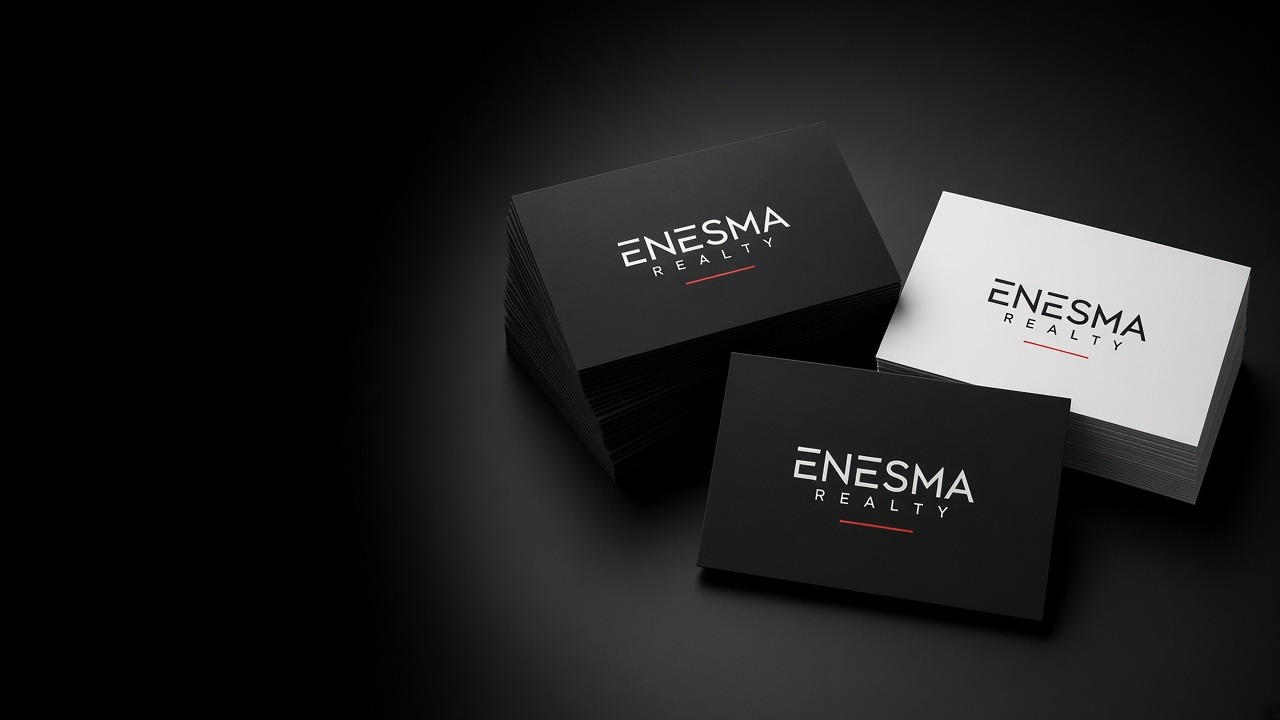
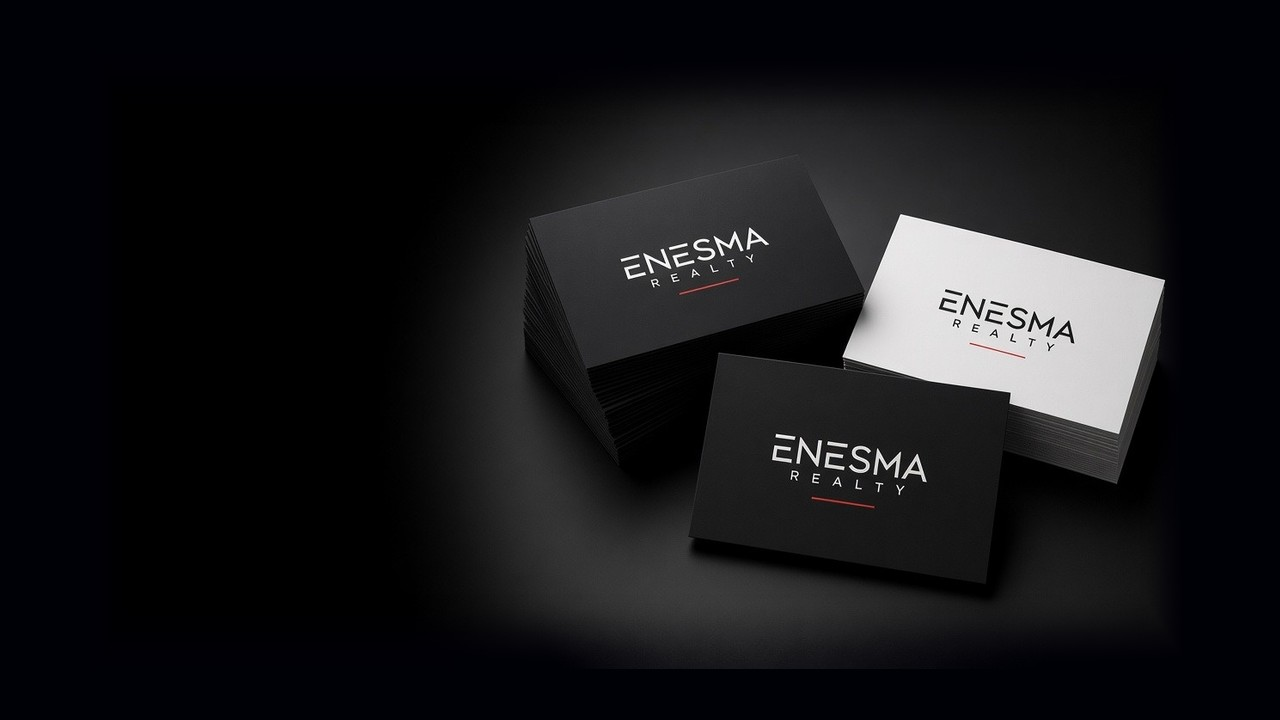
Give the home tile photos room and blend their edges into the tile.
Inset each Gear, Signs, and Cards photo on black and fade only the dark edges, so the products stay whole and the photo no longer reads as a lighter box.

diff --git a/index.html b/index.html
@@ -8,7 +8,7 @@
 (function () {
   var path = location.pathname, marker = '/enesma-shop/', i = path.indexOf(marker);
   window.SHOP_BASE = i >= 0 ? path.slice(0, i + marker.length) : '/';
-  var v = '20261120s';
+  var v = '20261120t';
   var b = window.SHOP_BASE;
   document.write('<base href="' + b + '">');
   document.write('<link rel="stylesheet" href="' + b + 'css/shop.css?v=' + v + '">');
@@ -34,13 +34,13 @@
 <body data-page="home">
 <div id="app"></div>
 <script>
-document.write('<script src="' + window.SHOP_BASE + 'js/config.js?v=20261120s"><\/script>');
-document.write('<script src="' + window.SHOP_BASE + 'js/catalog.js?v=20261120s"><\/script>');
-document.write('<script src="' + window.SHOP_BASE + 'js/cart.js?v=20261120s"><\/script>');
-document.write('<script src="' + window.SHOP_BASE + 'js/api.js?v=20261120s"><\/script>');
-document.write('<script src="' + window.SHOP_BASE + 'js/ui.js?v=20261120s"><\/script>');
-document.write('<script src="' + window.SHOP_BASE + 'js/main.js?v=20261120s"><\/script>');
-if (window.__ESHOP_INTRO) document.write('<script src="' + window.SHOP_BASE + 'js/intro.js?v=20261120s-white"><\/script>');
+document.write('<script src="' + window.SHOP_BASE + 'js/config.js?v=20261120t"><\/script>');
+document.write('<script src="' + window.SHOP_BASE + 'js/catalog.js?v=20261120t"><\/script>');
+document.write('<script src="' + window.SHOP_BASE + 'js/cart.js?v=20261120t"><\/script>');
+document.write('<script src="' + window.SHOP_BASE + 'js/api.js?v=20261120t"><\/script>');
+document.write('<script src="' + window.SHOP_BASE + 'js/ui.js?v=20261120t"><\/script>');
+document.write('<script src="' + window.SHOP_BASE + 'js/main.js?v=20261120t"><\/script>');
+if (window.__ESHOP_INTRO) document.write('<script src="' + window.SHOP_BASE + 'js/intro.js?v=20261120t-white"><\/script>');
 </script>
 </body>
 </html>

diff --git a/cards/index.html b/cards/index.html
@@ -8,7 +8,7 @@
 (function () {
   var path = location.pathname, marker = '/enesma-shop/', i = path.indexOf(marker);
   window.SHOP_BASE = i >= 0 ? path.slice(0, i + marker.length) : '/';
-  var v = '20261120s';
+  var v = '20261120t';
   var b = window.SHOP_BASE;
   document.write('<base href="' + b + '">');
   document.write('<link rel="stylesheet" href="' + b + 'css/shop.css?v=' + v + '">');
@@ -23,12 +23,12 @@
 <body data-page="category" data-category="cards" data-title="Cards" data-lede="Business cards, printed with your photo and contact details.">
 <div id="app"></div>
 <script>
-document.write('<script src="' + window.SHOP_BASE + 'js/config.js?v=20261120s"><\/script>');
-document.write('<script src="' + window.SHOP_BASE + 'js/catalog.js?v=20261120s"><\/script>');
-document.write('<script src="' + window.SHOP_BASE + 'js/cart.js?v=20261120s"><\/script>');
-document.write('<script src="' + window.SHOP_BASE + 'js/api.js?v=20261120s"><\/script>');
-document.write('<script src="' + window.SHOP_BASE + 'js/ui.js?v=20261120s"><\/script>');
-document.write('<script src="' + window.SHOP_BASE + 'js/main.js?v=20261120s"><\/script>');
+document.write('<script src="' + window.SHOP_BASE + 'js/config.js?v=20261120t"><\/script>');
+document.write('<script src="' + window.SHOP_BASE + 'js/catalog.js?v=20261120t"><\/script>');
+document.write('<script src="' + window.SHOP_BASE + 'js/cart.js?v=20261120t"><\/script>');
+document.write('<script src="' + window.SHOP_BASE + 'js/api.js?v=20261120t"><\/script>');
+document.write('<script src="' + window.SHOP_BASE + 'js/ui.js?v=20261120t"><\/script>');
+document.write('<script src="' + window.SHOP_BASE + 'js/main.js?v=20261120t"><\/script>');
 </script>
 </body>
 </html>

diff --git a/signs/index.html b/signs/index.html
@@ -8,7 +8,7 @@
 (function () {
   var path = location.pathname, marker = '/enesma-shop/', i = path.indexOf(marker);
   window.SHOP_BASE = i >= 0 ? path.slice(0, i + marker.length) : '/';
-  var v = '20261120s';
+  var v = '20261120t';
   var b = window.SHOP_BASE;
   document.write('<base href="' + b + '">');
   document.write('<link rel="stylesheet" href="' + b + 'css/shop.css?v=' + v + '">');
@@ -23,12 +23,12 @@
 <body data-page="category" data-category="signs" data-title="Signs" data-lede="For sale signs and open house signs, in White or Black.">
 <div id="app"></div>
 <script>
-document.write('<script src="' + window.SHOP_BASE + 'js/config.js?v=20261120s"><\/script>');
-document.write('<script src="' + window.SHOP_BASE + 'js/catalog.js?v=20261120s"><\/script>');
-document.write('<script src="' + window.SHOP_BASE + 'js/cart.js?v=20261120s"><\/script>');
-document.write('<script src="' + window.SHOP_BASE + 'js/api.js?v=20261120s"><\/script>');
-document.write('<script src="' + window.SHOP_BASE + 'js/ui.js?v=20261120s"><\/script>');
-document.write('<script src="' + window.SHOP_BASE + 'js/main.js?v=20261120s"><\/script>');
+document.write('<script src="' + window.SHOP_BASE + 'js/config.js?v=20261120t"><\/script>');
+document.write('<script src="' + window.SHOP_BASE + 'js/catalog.js?v=20261120t"><\/script>');
+document.write('<script src="' + window.SHOP_BASE + 'js/cart.js?v=20261120t"><\/script>');
+document.write('<script src="' + window.SHOP_BASE + 'js/api.js?v=20261120t"><\/script>');
+document.write('<script src="' + window.SHOP_BASE + 'js/ui.js?v=20261120t"><\/script>');
+document.write('<script src="' + window.SHOP_BASE + 'js/main.js?v=20261120t"><\/script>');
 </script>
 </body>
 </html>

diff --git a/gear/index.html b/gear/index.html
@@ -8,7 +8,7 @@
 (function () {
   var path = location.pathname, marker = '/enesma-shop/', i = path.indexOf(marker);
   window.SHOP_BASE = i >= 0 ? path.slice(0, i + marker.length) : '/';
-  var v = '20261120s';
+  var v = '20261120t';
   var b = window.SHOP_BASE;
   document.write('<base href="' + b + '">');
   document.write('<link rel="stylesheet" href="' + b + 'css/shop.css?v=' + v + '">');
@@ -25,12 +25,12 @@ document.write('<script type="importmap">'+JSON.stringify({imports:{"three":wind
 <body data-page="closet">
 <div id="app"></div>
 <script>
-document.write('<script src="' + window.SHOP_BASE + 'js/config.js?v=20261120s"><\/script>');
-document.write('<script src="' + window.SHOP_BASE + 'js/catalog.js?v=20261120s"><\/script>');
-document.write('<script src="' + window.SHOP_BASE + 'js/cart.js?v=20261120s"><\/script>');
-document.write('<script src="' + window.SHOP_BASE + 'js/api.js?v=20261120s"><\/script>');
-document.write('<script src="' + window.SHOP_BASE + 'js/ui.js?v=20261120s"><\/script>');
-document.write('<script src="' + window.SHOP_BASE + 'js/main.js?v=20261120s"><\/script>');
+document.write('<script src="' + window.SHOP_BASE + 'js/config.js?v=20261120t"><\/script>');
+document.write('<script src="' + window.SHOP_BASE + 'js/catalog.js?v=20261120t"><\/script>');
+document.write('<script src="' + window.SHOP_BASE + 'js/cart.js?v=20261120t"><\/script>');
+document.write('<script src="' + window.SHOP_BASE + 'js/api.js?v=20261120t"><\/script>');
+document.write('<script src="' + window.SHOP_BASE + 'js/ui.js?v=20261120t"><\/script>');
+document.write('<script src="' + window.SHOP_BASE + 'js/main.js?v=20261120t"><\/script>');
 </script>
 </body>
 </html>

diff --git a/signs/for-sale-aluminum/index.html b/signs/for-sale-aluminum/index.html
@@ -8,7 +8,7 @@
 (function () {
   var path = location.pathname, marker = '/enesma-shop/', i = path.indexOf(marker);
   window.SHOP_BASE = i >= 0 ? path.slice(0, i + marker.length) : '/';
-  var v = '20261120s';
+  var v = '20261120t';
   var b = window.SHOP_BASE;
   document.write('<base href="' + b + '">');
   document.write('<link rel="stylesheet" href="' + b + 'css/shop.css?v=' + v + '">');
@@ -23,12 +23,12 @@
 <body data-page="product" data-sku="for-sale-aluminum">
 <div id="app"></div>
 <script>
-document.write('<script src="' + window.SHOP_BASE + 'js/config.js?v=20261120s"><\/script>');
-document.write('<script src="' + window.SHOP_BASE + 'js/catalog.js?v=20261120s"><\/script>');
-document.write('<script src="' + window.SHOP_BASE + 'js/cart.js?v=20261120s"><\/script>');
-document.write('<script src="' + window.SHOP_BASE + 'js/api.js?v=20261120s"><\/script>');
-document.write('<script src="' + window.SHOP_BASE + 'js/ui.js?v=20261120s"><\/script>');
-document.write('<script src="' + window.SHOP_BASE + 'js/main.js?v=20261120s"><\/script>');
+document.write('<script src="' + window.SHOP_BASE + 'js/config.js?v=20261120t"><\/script>');
+document.write('<script src="' + window.SHOP_BASE + 'js/catalog.js?v=20261120t"><\/script>');
+document.write('<script src="' + window.SHOP_BASE + 'js/cart.js?v=20261120t"><\/script>');
+document.write('<script src="' + window.SHOP_BASE + 'js/api.js?v=20261120t"><\/script>');
+document.write('<script src="' + window.SHOP_BASE + 'js/ui.js?v=20261120t"><\/script>');
+document.write('<script src="' + window.SHOP_BASE + 'js/main.js?v=20261120t"><\/script>');
 </script>
 </body>
 </html>

diff --git a/signs/for-sale-plastic/index.html b/signs/for-sale-plastic/index.html
@@ -8,7 +8,7 @@
 (function () {
   var path = location.pathname, marker = '/enesma-shop/', i = path.indexOf(marker);
   window.SHOP_BASE = i >= 0 ? path.slice(0, i + marker.length) : '/';
-  var v = '20261120s';
+  var v = '20261120t';
   var b = window.SHOP_BASE;
   document.write('<base href="' + b + '">');
   document.write('<link rel="stylesheet" href="' + b + 'css/shop.css?v=' + v + '">');
@@ -23,12 +23,12 @@
 <body data-page="product" data-sku="for-sale-plastic">
 <div id="app"></div>
 <script>
-document.write('<script src="' + window.SHOP_BASE + 'js/config.js?v=20261120s"><\/script>');
-document.write('<script src="' + window.SHOP_BASE + 'js/catalog.js?v=20261120s"><\/script>');
-document.write('<script src="' + window.SHOP_BASE + 'js/cart.js?v=20261120s"><\/script>');
-document.write('<script src="' + window.SHOP_BASE + 'js/api.js?v=20261120s"><\/script>');
-document.write('<script src="' + window.SHOP_BASE + 'js/ui.js?v=20261120s"><\/script>');
-document.write('<script src="' + window.SHOP_BASE + 'js/main.js?v=20261120s"><\/script>');
+document.write('<script src="' + window.SHOP_BASE + 'js/config.js?v=20261120t"><\/script>');
+document.write('<script src="' + window.SHOP_BASE + 'js/catalog.js?v=20261120t"><\/script>');
+document.write('<script src="' + window.SHOP_BASE + 'js/cart.js?v=20261120t"><\/script>');
+document.write('<script src="' + window.SHOP_BASE + 'js/api.js?v=20261120t"><\/script>');
+document.write('<script src="' + window.SHOP_BASE + 'js/ui.js?v=20261120t"><\/script>');
+document.write('<script src="' + window.SHOP_BASE + 'js/main.js?v=20261120t"><\/script>');
 </script>
 </body>
 </html>

diff --git a/gear/quarter-zip/index.html b/gear/quarter-zip/index.html
@@ -8,7 +8,7 @@
 (function () {
   var path = location.pathname, marker = '/enesma-shop/', i = path.indexOf(marker);
   window.SHOP_BASE = i >= 0 ? path.slice(0, i + marker.length) : '/';
-  var v = '20261120s';
+  var v = '20261120t';
   var b = window.SHOP_BASE;
   document.write('<base href="' + b + '">');
   document.write('<link rel="stylesheet" href="' + b + 'css/shop.css?v=' + v + '">');
@@ -23,12 +23,12 @@
 <body data-page="product" data-sku="quarter-zip">
 <div id="app"></div>
 <script>
-document.write('<script src="' + window.SHOP_BASE + 'js/config.js?v=20261120s"><\/script>');
-document.write('<script src="' + window.SHOP_BASE + 'js/catalog.js?v=20261120s"><\/script>');
-document.write('<script src="' + window.SHOP_BASE + 'js/cart.js?v=20261120s"><\/script>');
-document.write('<script src="' + window.SHOP_BASE + 'js/api.js?v=20261120s"><\/script>');
-document.write('<script src="' + window.SHOP_BASE + 'js/ui.js?v=20261120s"><\/script>');
-document.write('<script src="' + window.SHOP_BASE + 'js/main.js?v=20261120s"><\/script>');
+document.write('<script src="' + window.SHOP_BASE + 'js/config.js?v=20261120t"><\/script>');
+document.write('<script src="' + window.SHOP_BASE + 'js/catalog.js?v=20261120t"><\/script>');
+document.write('<script src="' + window.SHOP_BASE + 'js/cart.js?v=20261120t"><\/script>');
+document.write('<script src="' + window.SHOP_BASE + 'js/api.js?v=20261120t"><\/script>');
+document.write('<script src="' + window.SHOP_BASE + 'js/ui.js?v=20261120t"><\/script>');
+document.write('<script src="' + window.SHOP_BASE + 'js/main.js?v=20261120t"><\/script>');
 </script>
 </body>
 </html>

diff --git a/cards/cards-1000/index.html b/cards/cards-1000/index.html
@@ -8,7 +8,7 @@
 (function () {
   var path = location.pathname, marker = '/enesma-shop/', i = path.indexOf(marker);
   window.SHOP_BASE = i >= 0 ? path.slice(0, i + marker.length) : '/';
-  var v = '20261120s';
+  var v = '20261120t';
   var b = window.SHOP_BASE;
   document.write('<base href="' + b + '">');
   document.write('<link rel="stylesheet" href="' + b + 'css/shop.css?v=' + v + '">');
@@ -23,12 +23,12 @@
 <body data-page="product" data-sku="cards-1000">
 <div id="app"></div>
 <script>
-document.write('<script src="' + window.SHOP_BASE + 'js/config.js?v=20261120s"><\/script>');
-document.write('<script src="' + window.SHOP_BASE + 'js/catalog.js?v=20261120s"><\/script>');
-document.write('<script src="' + window.SHOP_BASE + 'js/cart.js?v=20261120s"><\/script>');
-document.write('<script src="' + window.SHOP_BASE + 'js/api.js?v=20261120s"><\/script>');
-document.write('<script src="' + window.SHOP_BASE + 'js/ui.js?v=20261120s"><\/script>');
-document.write('<script src="' + window.SHOP_BASE + 'js/main.js?v=20261120s"><\/script>');
+document.write('<script src="' + window.SHOP_BASE + 'js/config.js?v=20261120t"><\/script>');
+document.write('<script src="' + window.SHOP_BASE + 'js/catalog.js?v=20261120t"><\/script>');
+document.write('<script src="' + window.SHOP_BASE + 'js/cart.js?v=20261120t"><\/script>');
+document.write('<script src="' + window.SHOP_BASE + 'js/api.js?v=20261120t"><\/script>');
+document.write('<script src="' + window.SHOP_BASE + 'js/ui.js?v=20261120t"><\/script>');
+document.write('<script src="' + window.SHOP_BASE + 'js/main.js?v=20261120t"><\/script>');
 </script>
 </body>
 </html>

diff --git a/signs/open-house/index.html b/signs/open-house/index.html
@@ -8,7 +8,7 @@
 (function () {
   var path = location.pathname, marker = '/enesma-shop/', i = path.indexOf(marker);
   window.SHOP_BASE = i >= 0 ? path.slice(0, i + marker.length) : '/';
-  var v = '20261120s';
+  var v = '20261120t';
   var b = window.SHOP_BASE;
   document.write('<base href="' + b + '">');
   document.write('<link rel="stylesheet" href="' + b + 'css/shop.css?v=' + v + '">');
@@ -23,12 +23,12 @@
 <body data-page="product" data-sku="open-house">
 <div id="app"></div>
 <script>
-document.write('<script src="' + window.SHOP_BASE + 'js/config.js?v=20261120s"><\/script>');
-document.write('<script src="' + window.SHOP_BASE + 'js/catalog.js?v=20261120s"><\/script>');
-document.write('<script src="' + window.SHOP_BASE + 'js/cart.js?v=20261120s"><\/script>');
-document.write('<script src="' + window.SHOP_BASE + 'js/api.js?v=20261120s"><\/script>');
-document.write('<script src="' + window.SHOP_BASE + 'js/ui.js?v=20261120s"><\/script>');
-document.write('<script src="' + window.SHOP_BASE + 'js/main.js?v=20261120s"><\/script>');
+document.write('<script src="' + window.SHOP_BASE + 'js/config.js?v=20261120t"><\/script>');
+document.write('<script src="' + window.SHOP_BASE + 'js/catalog.js?v=20261120t"><\/script>');
+document.write('<script src="' + window.SHOP_BASE + 'js/cart.js?v=20261120t"><\/script>');
+document.write('<script src="' + window.SHOP_BASE + 'js/api.js?v=20261120t"><\/script>');
+document.write('<script src="' + window.SHOP_BASE + 'js/ui.js?v=20261120t"><\/script>');
+document.write('<script src="' + window.SHOP_BASE + 'js/main.js?v=20261120t"><\/script>');
 </script>
 </body>
 </html>

diff --git a/gear/t-shirt/index.html b/gear/t-shirt/index.html
@@ -8,7 +8,7 @@
 (function () {
   var path = location.pathname, marker = '/enesma-shop/', i = path.indexOf(marker);
   window.SHOP_BASE = i >= 0 ? path.slice(0, i + marker.length) : '/';
-  var v = '20261120s';
+  var v = '20261120t';
   var b = window.SHOP_BASE;
   document.write('<base href="' + b + '">');
   document.write('<link rel="stylesheet" href="' + b + 'css/shop.css?v=' + v + '">');
@@ -23,12 +23,12 @@
 <body data-page="product" data-sku="t-shirt">
 <div id="app"></div>
 <script>
-document.write('<script src="' + window.SHOP_BASE + 'js/config.js?v=20261120s"><\/script>');
-document.write('<script src="' + window.SHOP_BASE + 'js/catalog.js?v=20261120s"><\/script>');
-document.write('<script src="' + window.SHOP_BASE + 'js/cart.js?v=20261120s"><\/script>');
-document.write('<script src="' + window.SHOP_BASE + 'js/api.js?v=20261120s"><\/script>');
-document.write('<script src="' + window.SHOP_BASE + 'js/ui.js?v=20261120s"><\/script>');
-document.write('<script src="' + window.SHOP_BASE + 'js/main.js?v=20261120s"><\/script>');
+document.write('<script src="' + window.SHOP_BASE + 'js/config.js?v=20261120t"><\/script>');
+document.write('<script src="' + window.SHOP_BASE + 'js/catalog.js?v=20261120t"><\/script>');
+document.write('<script src="' + window.SHOP_BASE + 'js/cart.js?v=20261120t"><\/script>');
+document.write('<script src="' + window.SHOP_BASE + 'js/api.js?v=20261120t"><\/script>');
+document.write('<script src="' + window.SHOP_BASE + 'js/ui.js?v=20261120t"><\/script>');
+document.write('<script src="' + window.SHOP_BASE + 'js/main.js?v=20261120t"><\/script>');
 </script>
 </body>
 </html>

diff --git a/signs/a-frame/index.html b/signs/a-frame/index.html
@@ -8,7 +8,7 @@
 (function () {
   var path = location.pathname, marker = '/enesma-shop/', i = path.indexOf(marker);
   window.SHOP_BASE = i >= 0 ? path.slice(0, i + marker.length) : '/';
-  var v = '20261120s';
+  var v = '20261120t';
   var b = window.SHOP_BASE;
   document.write('<base href="' + b + '">');
   document.write('<link rel="stylesheet" href="' + b + 'css/shop.css?v=' + v + '">');
@@ -23,12 +23,12 @@
 <body data-page="product" data-sku="a-frame">
 <div id="app"></div>
 <script>
-document.write('<script src="' + window.SHOP_BASE + 'js/config.js?v=20261120s"><\/script>');
-document.write('<script src="' + window.SHOP_BASE + 'js/catalog.js?v=20261120s"><\/script>');
-document.write('<script src="' + window.SHOP_BASE + 'js/cart.js?v=20261120s"><\/script>');
-document.write('<script src="' + window.SHOP_BASE + 'js/api.js?v=20261120s"><\/script>');
-document.write('<script src="' + window.SHOP_BASE + 'js/ui.js?v=20261120s"><\/script>');
-document.write('<script src="' + window.SHOP_BASE + 'js/main.js?v=20261120s"><\/script>');
+document.write('<script src="' + window.SHOP_BASE + 'js/config.js?v=20261120t"><\/script>');
+document.write('<script src="' + window.SHOP_BASE + 'js/catalog.js?v=20261120t"><\/script>');
+document.write('<script src="' + window.SHOP_BASE + 'js/cart.js?v=20261120t"><\/script>');
+document.write('<script src="' + window.SHOP_BASE + 'js/api.js?v=20261120t"><\/script>');
+document.write('<script src="' + window.SHOP_BASE + 'js/ui.js?v=20261120t"><\/script>');
+document.write('<script src="' + window.SHOP_BASE + 'js/main.js?v=20261120t"><\/script>');
 </script>
 </body>
 </html>

diff --git a/gear/polo/index.html b/gear/polo/index.html
@@ -8,7 +8,7 @@
 (function () {
   var path = location.pathname, marker = '/enesma-shop/', i = path.indexOf(marker);
   window.SHOP_BASE = i >= 0 ? path.slice(0, i + marker.length) : '/';
-  var v = '20261120s';
+  var v = '20261120t';
   var b = window.SHOP_BASE;
   document.write('<base href="' + b + '">');
   document.write('<link rel="stylesheet" href="' + b + 'css/shop.css?v=' + v + '">');
@@ -23,12 +23,12 @@
 <body data-page="product" data-sku="polo">
 <div id="app"></div>
 <script>
-document.write('<script src="' + window.SHOP_BASE + 'js/config.js?v=20261120s"><\/script>');
-document.write('<script src="' + window.SHOP_BASE + 'js/catalog.js?v=20261120s"><\/script>');
-document.write('<script src="' + window.SHOP_BASE + 'js/cart.js?v=20261120s"><\/script>');
-document.write('<script src="' + window.SHOP_BASE + 'js/api.js?v=20261120s"><\/script>');
-document.write('<script src="' + window.SHOP_BASE + 'js/ui.js?v=20261120s"><\/script>');
-document.write('<script src="' + window.SHOP_BASE + 'js/main.js?v=20261120s"><\/script>');
+document.write('<script src="' + window.SHOP_BASE + 'js/config.js?v=20261120t"><\/script>');
+document.write('<script src="' + window.SHOP_BASE + 'js/catalog.js?v=20261120t"><\/script>');
+document.write('<script src="' + window.SHOP_BASE + 'js/cart.js?v=20261120t"><\/script>');
+document.write('<script src="' + window.SHOP_BASE + 'js/api.js?v=20261120t"><\/script>');
+document.write('<script src="' + window.SHOP_BASE + 'js/ui.js?v=20261120t"><\/script>');
+document.write('<script src="' + window.SHOP_BASE + 'js/main.js?v=20261120t"><\/script>');
 </script>
 </body>
 </html>
